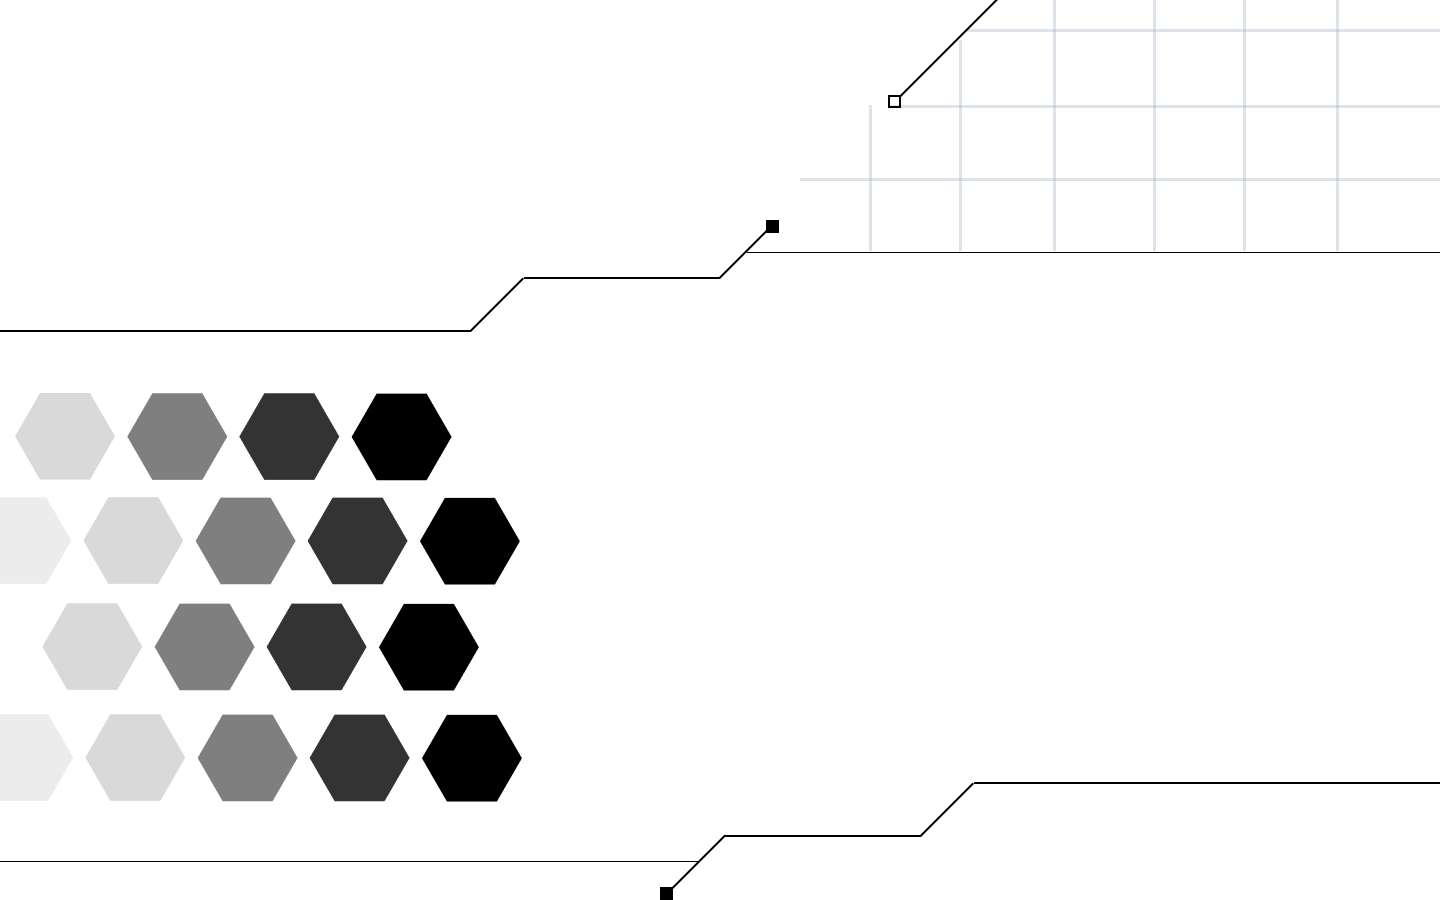
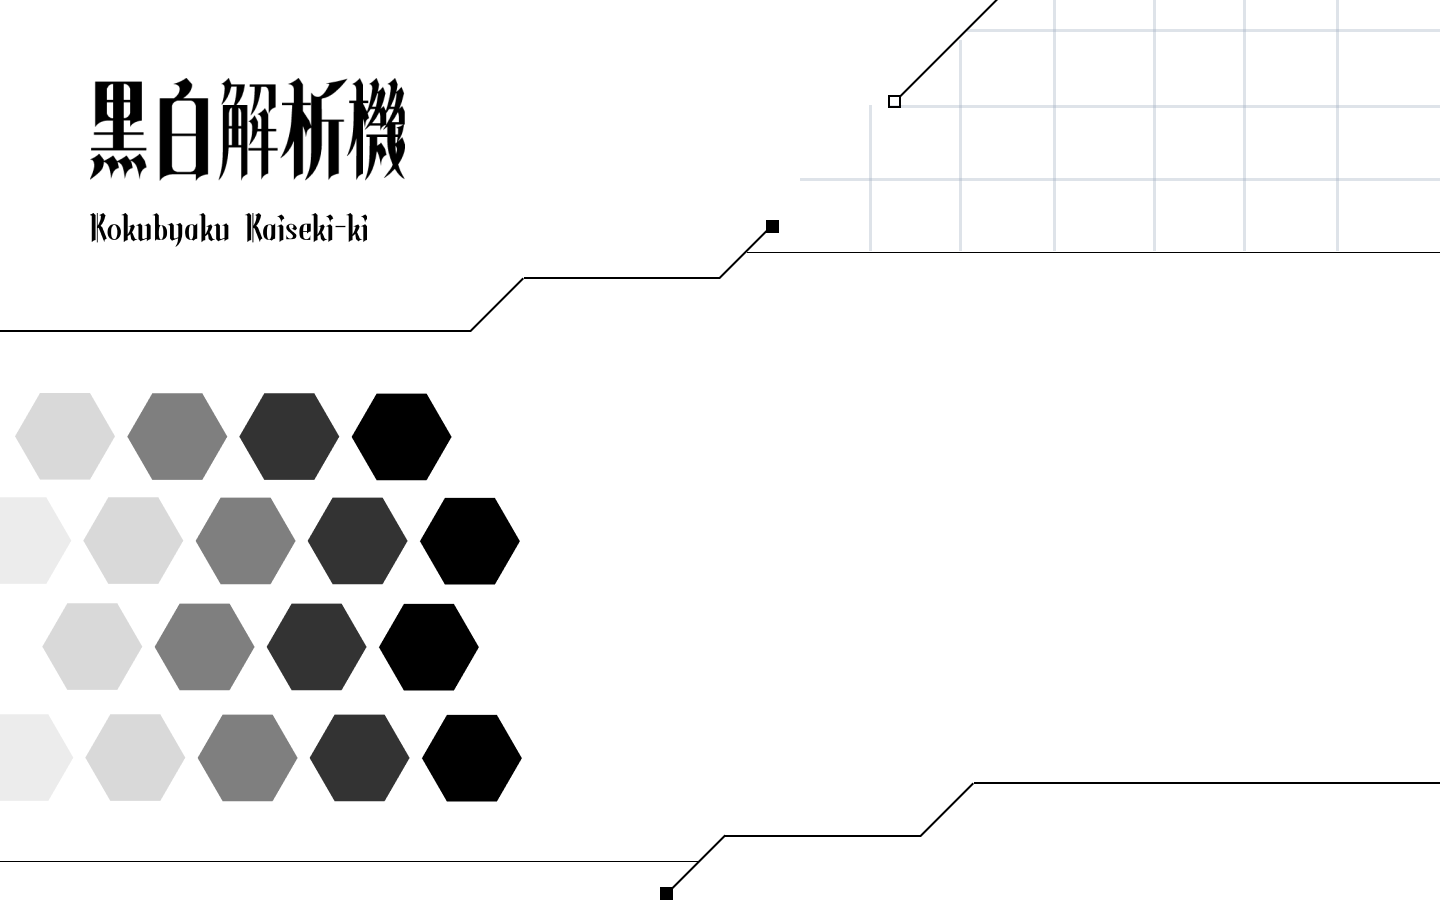
feat: update hero

Changed region(s): [[0.0625, 0.0933, 0.2812, 0.28]]

diff --git a/tailwind.config.ts b/tailwind.config.ts
@@ -1,67 +1,70 @@
 import type { Config } from 'tailwindcss'
 
 const config: Config = {
-    darkMode: ['class'],
-    content: [
+  darkMode: ['class'],
+  content: [
     './src/pages/**/*.{js,ts,jsx,tsx,mdx}',
     './src/components/**/*.{js,ts,jsx,tsx,mdx}',
     './src/app/**/*.{js,ts,jsx,tsx,mdx}',
   ],
   theme: {
-  	extend: {
-  		colors: {
-  			background: 'hsl(var(--background))',
-  			foreground: 'hsl(var(--foreground))',
-  			card: {
-  				DEFAULT: 'hsl(var(--card))',
-  				foreground: 'hsl(var(--card-foreground))'
-  			},
-  			popover: {
-  				DEFAULT: 'hsl(var(--popover))',
-  				foreground: 'hsl(var(--popover-foreground))'
-  			},
-  			primary: {
-  				DEFAULT: 'hsl(var(--primary))',
-  				foreground: 'hsl(var(--primary-foreground))'
-  			},
-  			secondary: {
-  				DEFAULT: 'hsl(var(--secondary))',
-  				foreground: 'hsl(var(--secondary-foreground))'
-  			},
-  			muted: {
-  				DEFAULT: 'hsl(var(--muted))',
-  				foreground: 'hsl(var(--muted-foreground))'
-  			},
-  			accent: {
-  				DEFAULT: 'hsl(var(--accent))',
-  				foreground: 'hsl(var(--accent-foreground))'
-  			},
-  			destructive: {
-  				DEFAULT: 'hsl(var(--destructive))',
-  				foreground: 'hsl(var(--destructive-foreground))'
-  			},
-  			border: 'hsl(var(--border))',
-  			input: 'hsl(var(--input))',
-  			ring: 'hsl(var(--ring))',
-  			chart: {
-  				'1': 'hsl(var(--chart-1))',
-  				'2': 'hsl(var(--chart-2))',
-  				'3': 'hsl(var(--chart-3))',
-  				'4': 'hsl(var(--chart-4))',
-  				'5': 'hsl(var(--chart-5))'
-  			}
-  		},
-  		fontFamily: {
-  			sans: ['var(--font-geist-sans)'],
-  			mono: ['var(--font-geist-mono)']
-  		},
-  		borderRadius: {
-  			lg: 'var(--radius)',
-  			md: 'calc(var(--radius) - 2px)',
-  			sm: 'calc(var(--radius) - 4px)'
-  		}
-  	}
+    extend: {
+      colors: {
+        background: 'hsl(var(--background))',
+        foreground: 'hsl(var(--foreground))',
+        card: {
+          DEFAULT: 'hsl(var(--card))',
+          foreground: 'hsl(var(--card-foreground))',
+        },
+        popover: {
+          DEFAULT: 'hsl(var(--popover))',
+          foreground: 'hsl(var(--popover-foreground))',
+        },
+        primary: {
+          DEFAULT: 'hsl(var(--primary))',
+          foreground: 'hsl(var(--primary-foreground))',
+        },
+        secondary: {
+          DEFAULT: 'hsl(var(--secondary))',
+          foreground: 'hsl(var(--secondary-foreground))',
+        },
+        muted: {
+          DEFAULT: 'hsl(var(--muted))',
+          foreground: 'hsl(var(--muted-foreground))',
+        },
+        accent: {
+          DEFAULT: 'hsl(var(--accent))',
+          foreground: 'hsl(var(--accent-foreground))',
+        },
+        destructive: {
+          DEFAULT: 'hsl(var(--destructive))',
+          foreground: 'hsl(var(--destructive-foreground))',
+        },
+        border: 'hsl(var(--border))',
+        input: 'hsl(var(--input))',
+        ring: 'hsl(var(--ring))',
+        chart: {
+          '1': 'hsl(var(--chart-1))',
+          '2': 'hsl(var(--chart-2))',
+          '3': 'hsl(var(--chart-3))',
+          '4': 'hsl(var(--chart-4))',
+          '5': 'hsl(var(--chart-5))',
+        },
+      },
+      fontFamily: {
+        sans: ['var(--font-geist-sans)'],
+        mono: ['var(--font-geist-mono)'],
+      },
+      borderRadius: {
+        lg: 'var(--radius)',
+        md: 'calc(var(--radius) - 2px)',
+        sm: 'calc(var(--radius) - 4px)',
+      },
+      backgroundImage: {
+        'hero-background': "url('/hero-background.png')",
+      },
+    },
   },
-  plugins: [require("tailwindcss-animate")],
+  plugins: [require('tailwindcss-animate')],
 }
 export default config

diff --git a/src/app/page.tsx b/src/app/page.tsx
@@ -1,17 +1,24 @@
 import ImageUploadForm from './components/image-upload-form'
+import Scroll from './components/scroll'
 
 export default function Home() {
   return (
-    <div className="grid min-h-screen grid-rows-[20px_1fr_20px] items-center justify-items-center gap-16 bg-background p-8 pb-20 font-sans sm:p-20">
-      <header>
-        <h1>Simple Image</h1>
-      </header>
-      <main className="row-start-2 flex flex-col items-center gap-8 sm:items-start">
+    <article className="min-h-dvh bg-gradient-to-b from-white to-zinc-600">
+      <div className="relative aspect-video w-full bg-hero-background bg-cover bg-center bg-no-repeat">
+        <div className="absolute right-12 top-1/3 w-1/3 space-y-2 text-black">
+          <h2 className="text-lg">App Description</h2>
+          <h1 className="text-2xl font-bold">黒白解析機</h1>
+          <p className="text-sm">
+            それは真実を暴く白と黒のコントラスト。闇の中に隠された物体を、鋭い目で見抜き、鮮やかな精度で解析する。
+          </p>
+        </div>
+        <div className="absolute bottom-0 right-1/2 translate-x-1/2">
+          <Scroll />
+        </div>
+      </div>
+      <main className="mx-auto mt-52 max-w-lg px-4 pb-10 md:mt-32">
         <ImageUploadForm />
       </main>
-      <footer className="row-start-3 flex flex-wrap items-center justify-center gap-6">
-        Next.js + FastAPI (YOLO + OpenAI API)
-      </footer>
-    </div>
+    </article>
   )
 }
